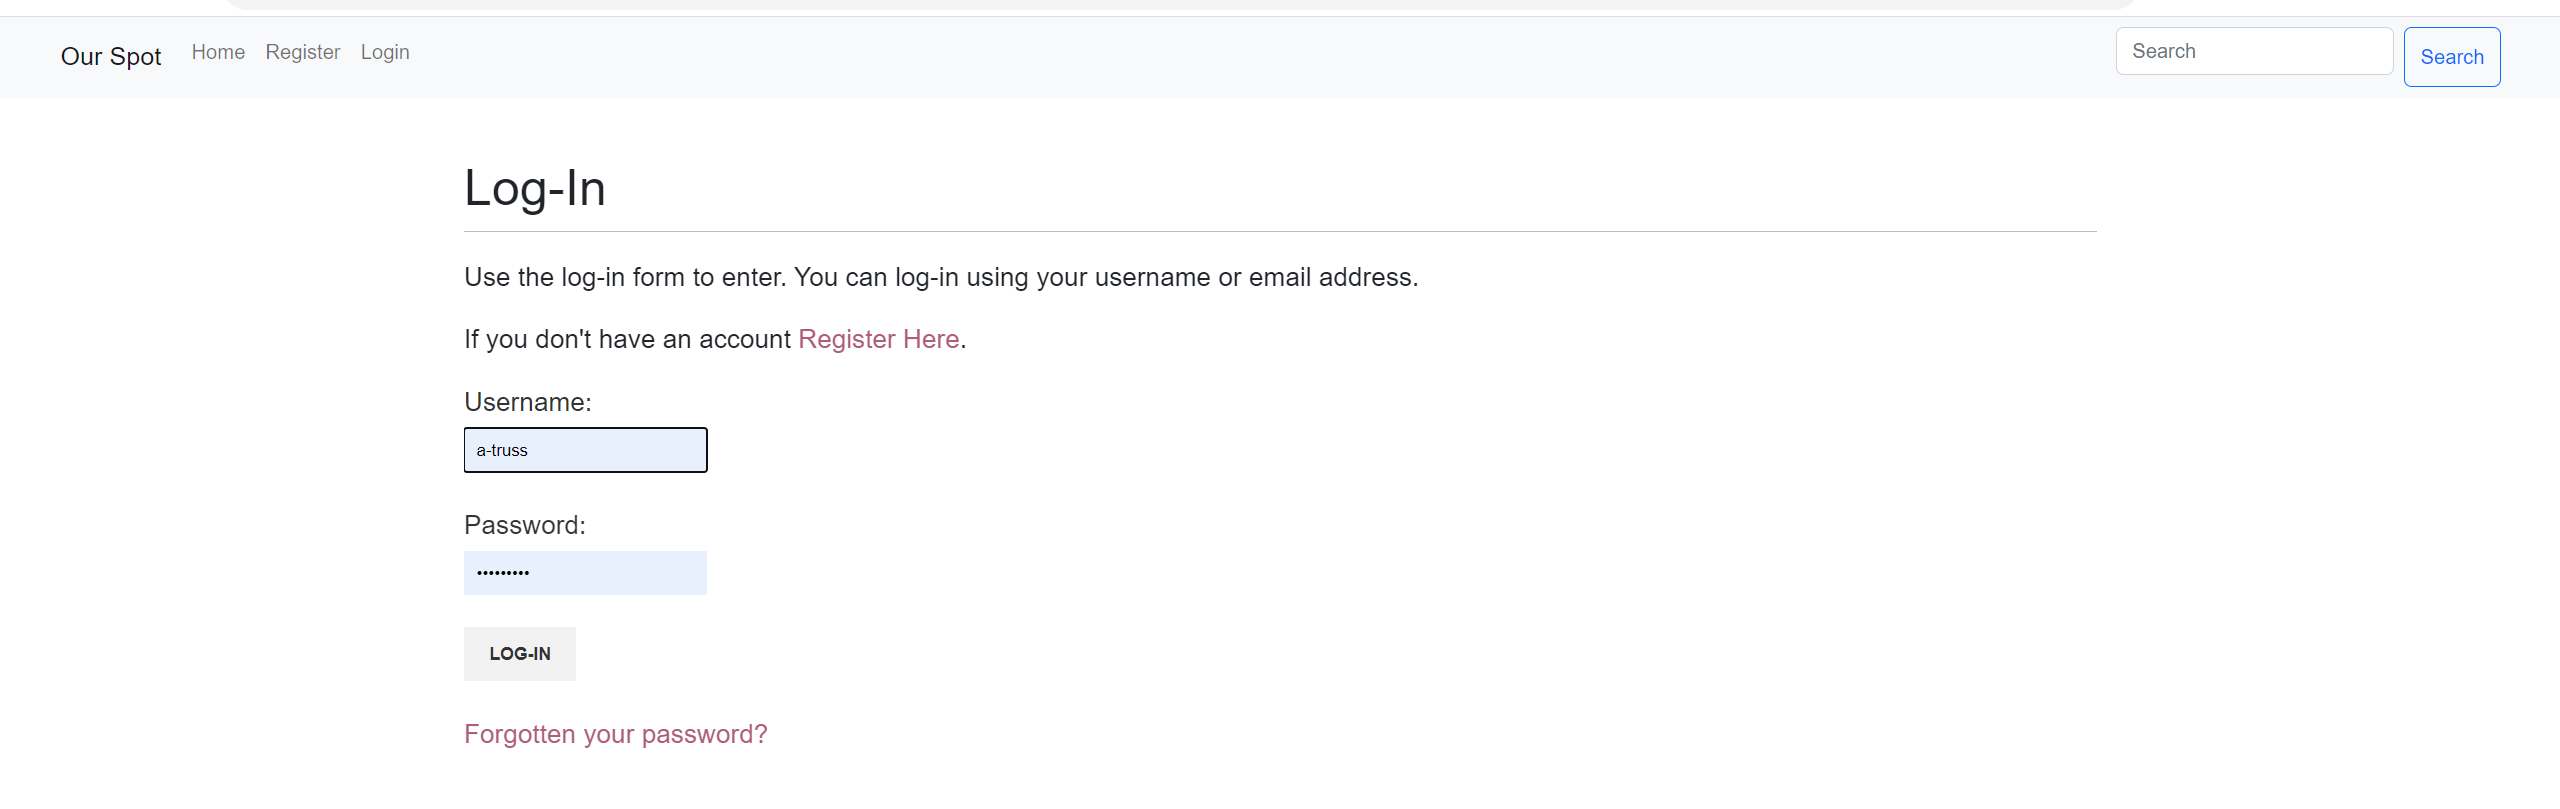
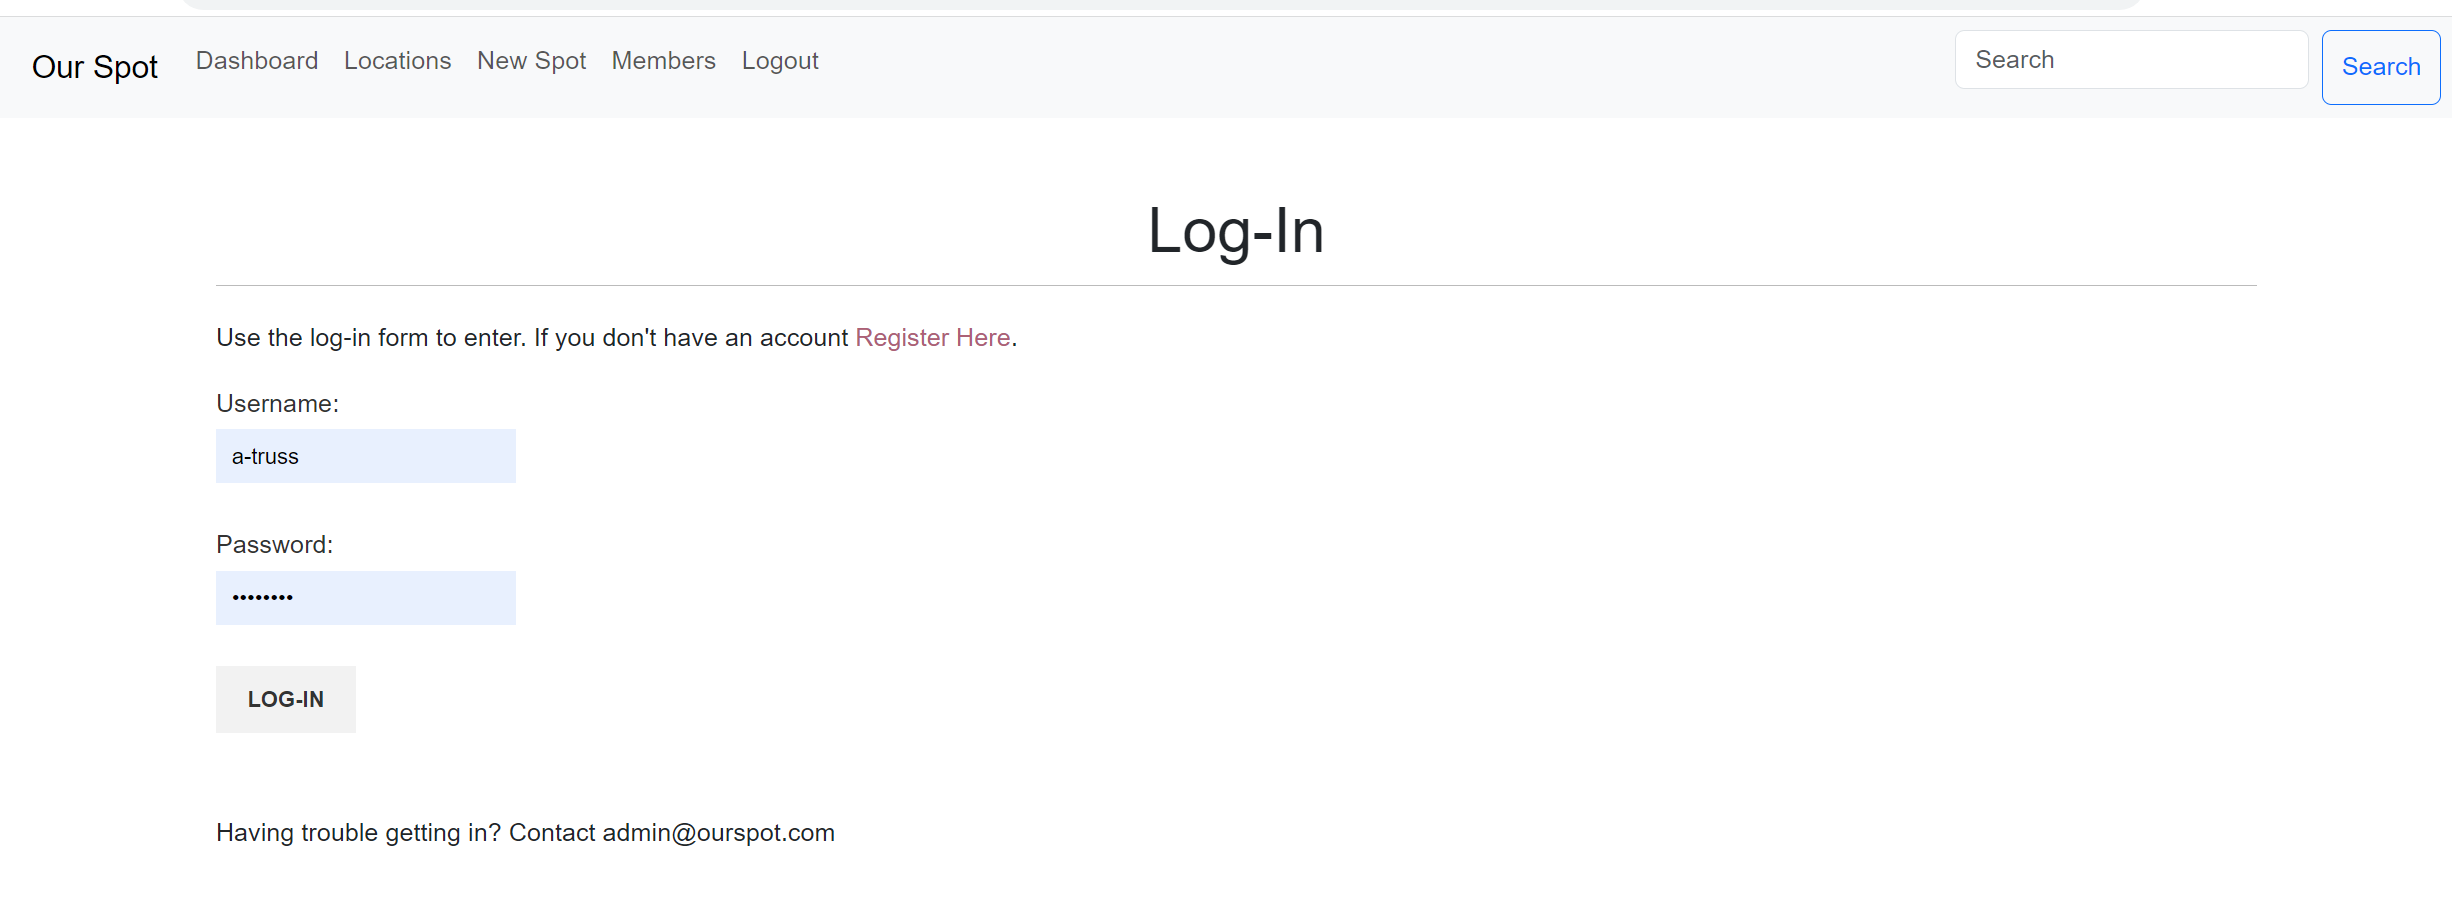
Final amendments to README and TESTING pages

diff --git a/locations/templates/locations/locations.html b/locations/templates/locations/locations.html
@@ -10,13 +10,12 @@
     <h1>Recent Spots</h1>
     <div class="row"> 
         {% for location in locations %}
-            <div class="col-md-6 mb-4"> 
+            <div class="col-md-3 mb-4"> 
                 <div class="card h-100"> 
                     <a href="{{ location.get_absolute_url }}" aria-label="Click to view {{ location.title }}">
                         <img src="{{ location.image.url }}" alt="{{ location.image_alt }}" class="card-img-top img-fluid"></a>
                         <div class="card-body"> 
-                        <h3 class="card-title">{{ location.title }}</h3>
-                        <p class="card-text">{{ location.description|truncatechars:150 }}</p>
+                        <p class="card-title">{{ location.title }}</p>
                     </div>
                 </div>
             </div>

diff --git a/static/css/style.css b/static/css/style.css
@@ -21,7 +21,6 @@ h6 {
 
 p {
     line-height: 1.6;
-    font-size: 1.3rem;
 }
 
 a {
@@ -41,7 +40,7 @@ h1 {
     margin: 10px 0 20px 0;
 }
 
-/* HomePage Image Box */
+/* HomePage Image */
 
 .col-md-6 {
     border-radius: 1rem;
@@ -52,7 +51,7 @@ h1 {
 
 .card-img-top {
     width: 100%;
-    height: 300px;
+    height: 200px;
     object-fit: cover;
 }
 
@@ -178,7 +177,7 @@ ul.messages li a.close {
     text-shadow: none;
 }
 
-/* media query for dashboard buttons */
+/* media query for dashboard buttons 475px and below */
 
 @media (max-width: 475px) {
     .list-inline {

diff --git a/locations/templates/locations/edit_location.html b/locations/templates/locations/edit_location.html
@@ -13,7 +13,7 @@
             {{ form.media }}
             {{ form|crispy }}  
             <div class="mb-5">
-                <p> <button type="submit" class="btn btn-outline-dark">Edit Location</button></p>
+                <p> <button type="submit" class="btn btn-outline-dark">Save Changes</button></p>
             </div>
         </form>
     

diff --git a/templates/registration/login.html b/templates/registration/login.html
@@ -25,9 +25,8 @@
     <input type="hidden" name="next" value="{{ next }}">
     <p><input type="submit" value="Log-in"></p>
   </form>
-  <p>
-    <a href='{% url "password_reset" %}'> Forgotten your password? </a>
-  </p>
+  <br>
+  <p> Having trouble getting in? Contact admin@ourspot.com</p>
 </div>
 </div>
 {% endblock %}

diff --git a/templates/account/user/detail.html b/templates/account/user/detail.html
@@ -32,7 +32,7 @@
     <br>
     <h3> I have shared {{ locations.count | default_if_none:"0" }} spot(s) </h3>
     <br>
-    <!-- Images in a row of 4 -->
+    <!-- Images of members -->
     <div class="row">
         {% for location in locations %}
         <div class="col-md-6 mb-4"> 

diff --git a/locations/views.py b/locations/views.py
@@ -65,6 +65,7 @@ class LocationDetail(DetailView):
 
 
 class LocationLike(View):
+    """Like button"""
     def post(self, request, slug):
         location = get_object_or_404(Location, slug=slug)
 
@@ -126,7 +127,7 @@ class LocationImage(LoginRequiredMixin, TemplateView):
 
 
 
-# Comments Section
+# Comments Section - add, edit and delete
 
 
 @login_required

diff --git a/README.md b/README.md
@@ -107,7 +107,7 @@ The key objectives of the project include:
 
 - Building a database-backed model-view-template (MVT) web application that lets users store and manipulate data records including the ability to create, read, edit and delete.
 
-- Giving users the ability to initiate and control their actions while providing immediate and complete feedback on data.processes.
+- Giving users the ability to initiate and control their actions while providing immediate and complete feedback on data processes.
 
 - A place where administrators of the project have a panel that allows them to monitor users and the information they share as well as the comments they make, to ensure the community is kept safe and the environment is not abused.
 
@@ -161,7 +161,7 @@ I used MVT to help define the project's requirements, features, and structure by
 
 - What should the HTML structure of the site look like? What is the layout for the pages?
 - What should the structure and design of the member registration and login forms look like?
-- What does the users template to add, edit and delete locations look like? How should they be structured?
+- What does the users template to view, add, edit and delete locations look like? How should they be structured?
 - What should these templates include?
 - What should the format and style of a users profile page look like?
 - How do we ensure that both load time and responsiveness are taken into consideration when building the project?
@@ -208,7 +208,7 @@ The GitHub project area was used to manage this process.
 
 The site contains a usable database that stores data in a consistent and well-organised manner. Postresql was used to create the data structure which is hosted at ElephantSQL. 
 
-This database schema defines the structure and relationships for this application. I used business logic in the design of the database by ensuring there are clear relationships between each model - e.g. User, Locations, Comment, Like, user profile. There is a method to count likes, to add users, to allow users to edit and update their profile etc.
+This database schema defines the structure and relationships for this application. I used business logic in the design of the database by ensuring there are clear relationships between each model - e.g. User, Locations, Comment, Like, User Profile. There is a method to count likes, to add users, to allow users to edit and update their profile etc.
 
 Once users register a file is created that stores their username and password plus any additional information provided. Users are then allocated a profile and have the ability to upload photos based on a location. These locations can be liked and commented upon by other users.
 
@@ -218,11 +218,11 @@ Below is the entity relationship diagram for Our Spot.
 
 ***User*** includes username, first and last name, email and password. The username is a one-to-one field, while the other fields are textFields.
 
-***User profile*** extends the details provided in the user section and also includes a date of birth dateField and a photo imageField.
+***User Profile*** extends the details provided in the user section and also includes a date of birth dateField and a photo imageField.
 
 ***Locations*** includes a charField title, slugField slug for the url, a charfield for description & image alt, cloudinary for image and a tuple for the location types. The posted date uses the datetime field.
 
-***Like***. A foreign key is used for a user to like a location and for the location itself.
+***Like***. A Many-To-Many field is used for a user to like a location.
 
 ***Comment***. as the user is already logged-in, only the comment box text field is needed along with a datetime field for created and updated. The user and location are both foreign keys.
 
@@ -238,9 +238,9 @@ When designing the structure of the site I kept my focus on the need to create a
 
 ***Home/Index Page***
 
-![Homepage wireframe](readme/wireframes/wf-homepage.png)
+<img src="readme/wireframes/wf-homepage.png" width="80%"><br>
 
-In order to log-in users must add a username and password. Email is optional in Phase One, although it helps to add an email - even a fake one - so you can login using username or email. In Phase Two when email authentication is included this will change.
+In order to log-in users must add a username and password. Email is optional in Phase One, although it helps to add an email - even a fake one - so you can login using username or email. 
 
 ![register and success login](readme/wireframes/wf-register.png)
 
@@ -248,9 +248,9 @@ As long as the minimum requirements are met users are informed of their registra
 
 Once logged-in users are met with their dashboard. The visual hierarcy of the platform has been set up so that users naturally flow from one area to another, starting with the dashboard where all visitors are taken to when they first log-in.
 
-![Dashboard wireframe](readme/wireframes/wf-dashboard.png)
+<img src="readme/wireframes/wf-dashboard.png" width="80%"><br>
 
-Once inside, other options available are to see images added by other uses (locations tab) and to addd their own images (new spot tab).
+Once inside, other options available are to see images added by other uses (locations tab) and to add their own images (new spot tab).
 
 ![Locations](readme/wireframes/wf-locations.png)
 
@@ -273,15 +273,14 @@ Messages are used to ensure that any changes to the data are notified to the use
 
 <details>
 
-As a member of the platform users will enjoy:
 
-- A platform that focuses on the importance of spending time outside.
+As a member of the platform users will enjoy:
 
 - The opportunity for users to share their experiences and activities through photographs.
 
-- An opportunity to interact with other members through comments and the follow system.
+- An opportunity to interact with other members through comments.
 
-- A user-friendly dashboard that provides access to all parts of the network easily.
+- A user-friendly dashboard that provides access to all parts of the platform easily.
 
 - A user-friendly system/user journey for adding, commenting on and liking photos.
 
@@ -289,7 +288,7 @@ As a member of the platform users will enjoy:
 
 - Simplicity in registering, using and interacting were the main priorities to ensure user enjoyment.
 
-This research fed into the MVT and user stories.
+These ideas fed into the user stories.
 
 </details>
 
@@ -338,7 +337,7 @@ The structure for liking locations and adding, editing and deleting comments.
 As Admin, I want users to register before being able to look at or add a new photo.
 
 **_Password Change:_**
-As admin I want to set up a system so users can change their password when they are logged in.
+As admin I want to set up a system so users can change their password when they are logged in and to be able to contact Admin to change it if they are not logged in.
 
 **_Create, Read, Update and Delete_**
 As admin I want to be able to create, read, update and delete photos, comments and profiles so that the admin area is kept up to date.
@@ -359,22 +358,22 @@ As a user, I want to log in and out of my account so that I can access the platf
 As a user I want to be able to create, edit, and delete my photos and any other information added so that I can stay in control of the information I share.
 
 **_View User Photos:_**
-As a user, I want to be able to view the photos of other users and like/comment on them. 
+As a user, I want to be able to view the photos of other users so I can decided whether I want to like and/or leave a comment. 
 
 **_View Photo Information_**
-As a user, I want to view detailed information about a spot when I click on it.
+As a user, I want to view detailed information about a spot when I click on it so that I can see all the information provided.
 
 **_Create, Edit, cancel and delete profile:_**
 As a user I want to be able to create, edit, and delete my profile so that I have an accurate record of all my personal information and activity.
 
 **_View User Profile:_**
-As a user, I want to be able to view my profile and latest activity so that I can keep my information up to date.
+As a user, I want to be able to view my profile and my latest activity/uploads so that I can keep my information up to date.
 
 **_View Other Profiles:_**
-As a user I want to be able to view the profiles of other users so that I can look through (and in Stage Two follow) their activity.
+As a user I want to be able to view the profiles of other users so that I can look through their activity.
 
 **_Search Facilities:_**
-As a user I want to be able to search for different photos available based on their location.
+As a user I want to be able to search for different photos available based on their location so that I can find a location or specific image.
 
 </details>
 
@@ -521,7 +520,7 @@ Delete Location
 
 <details>
 
-The ability to like and comment on a photo is available to all users. The ability to delete a comment has also been included
+The ability to like and comment on a photo is available to all users. The ability to edit and delete a comment has also been included
 
 ![comment](readme/images/rm-comment.png)
 
@@ -533,13 +532,12 @@ There is a link back to the profile of any user who leaves a comment (see [user 
 
 <details>
 
-There is a link available for users who want to report a profile or photo. A pop up box appears inviting them to submit their report to Admin.
+There is a link available for users who want to report a profile or photo. In Stage Two a pop up box will appear inviting them to submit their report to Admin. 
 
 ![comment](readme/images/rm-report-photo.png)
 
 Message box that appears - this is currently a [placeholder](#placeholders-and-future-updates) only function
 
-![comment](readme/images/rm-report-photo-box.png)
 
 </details>
 
@@ -657,14 +655,14 @@ A central location where the site can be managed including the ability to create
 
 Included in the [Github Project Board](https://github.com/users/todiane/projects/8/views/1?layout=board) are user stories under the column "Stage Two" which represents upcoming iterations. This backlog includes user stories created for an upcoming development phase. 
 
-This phase provides an opportunity for me to respond to member feedback. It also allows for ongoing refinements and improvements that will evolve based on user input and needs. This highlights the adatability and scalability of the project.
+The second phase provides an opportunity for me to respond to member feedback. It also allows for ongoing refinements and improvements that will evolve based on user input and needs. This highlights the adatability and scalability of the project.
 
-This means that the network includes a few placeholders that were adding to highlight some of these additional features to be included in Stage Two. These are:
+As this is not the final project, the platform includes a couple of placeholders that were adding to highlight some of these additional features. These are:
 <br>
 
-_Report a photo or profile_ - The button under photos and profiles can be clicked to report a photo/profile to Admin. This currently works on the network but is not connected to an email system.
+_Report a photo or profile_ - The button under photos and profiles is shown for example purposes only but will become a working facility in the next phase. 
 
-_Email password_ - If a member is unable to log-in because they have forgotten their password the ability to complete the "forgotten password" form is available but is not currently a working system.
+_Email password_ - If a member is unable to log-in because they have forgotten their password the ability to complete the "forgotten password" form is not available but will become available.
 
 Additional features to be included are:
 

diff --git a/TESTING.md b/TESTING.md
@@ -34,9 +34,9 @@ Search bar in navagation has been tested. Searched using countries e.g. Scotland
 
 Testing complete functionality of the site. This includes:
 
-<img src="readme/tests/rm-manualtests.png" width="90%">
-<img src="readme/tests/rm-manualtests1.png" width="90%">
-<img src="readme/tests/rm-manualtests2.png" width="90%"><br><br>
+<img src="readme/tests/rm-manualtests.png">
+<img src="readme/tests/rm-manualtests1.png">
+<img src="readme/tests/rm-manualtests2.png"><br><br>
 
  ## Python 
 
@@ -57,7 +57,7 @@ Testing complete functionality of the site. This includes:
 
  ## HTML Testing
 
- There were a few lines of code that were left over the 79 characters usually expected because errors happened when they were changed. Below is one example:
+ There were a line of code that has been left over the 79 characters usually expected because errors happened when they were changed.
  
  List.html page - line 16 - linter highlights 6 problems. When attempts were made to make changes to this line, including making it shorter, the images disappeared so it was left in place. CSS was included to avoid conflict with images on the location page using the same Bootstrap class.
 
@@ -67,7 +67,9 @@ Testing complete functionality of the site. This includes:
 
 ***Known Bugs***
 
-- Users taken to the top of the page when they like, edit or delete a comment rather than staying in the location of the like/comment area.
+- Users sometimes taken to the top of the page when they like, edit or delete a comment rather than staying in the location of the like/comment area.
+
+- The 'report photo' and 'report profile' modal has stopped working but is not an essential component of project 4 or Stage One so will be fixed during Stage Two.
 
 - When a user edits their location the date and time are also edited to the current date and time, rather than staying at the original date and time.
 
@@ -94,6 +96,6 @@ A favicon has been added and shows up in the browser
 
 ## Restrospective
 
-I struggle with the testing aspect of projects outside of manual testing and in my next project I hope to include more test driven data from the start. I need to improve my knowledge in this area and in creating tests using the Django test.py files. My debugging skills also need to be improved.
-
 Overall, I am happy with the number of tests I performed to ensure the first stage of this project - which as stated is a minimum viable product - is user-centered and working well. Being a user has helped me see what is needed from a members perspective and having a few actual members looking at the platform and gaining their feedback when it comes to testing has also been invaluable.
+
+I need to improve my knowledge of testing aspect of projects outside of manual testing and in my next project I hope to include more test driven data from the start. I also need to improve my knowledge of creating tests using the Django test.py files along with my debugging skills.
